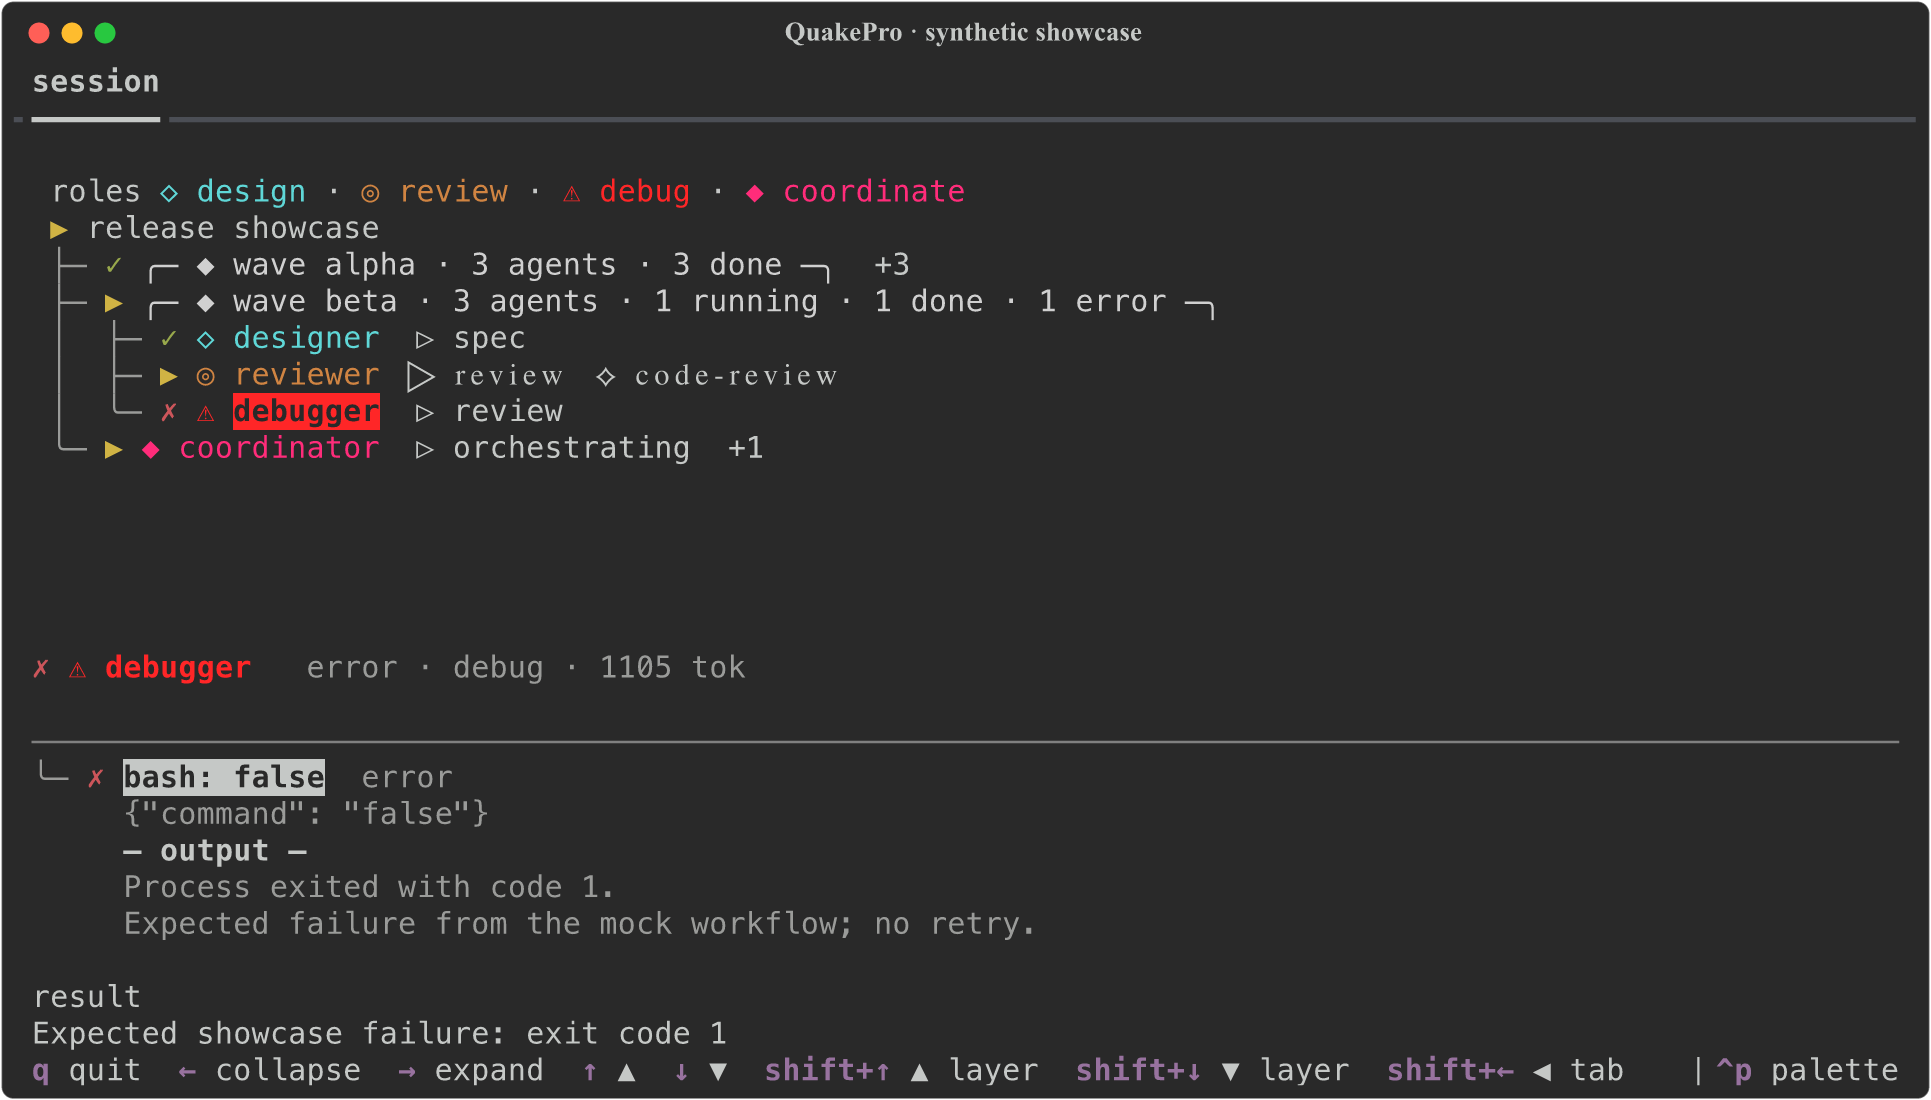
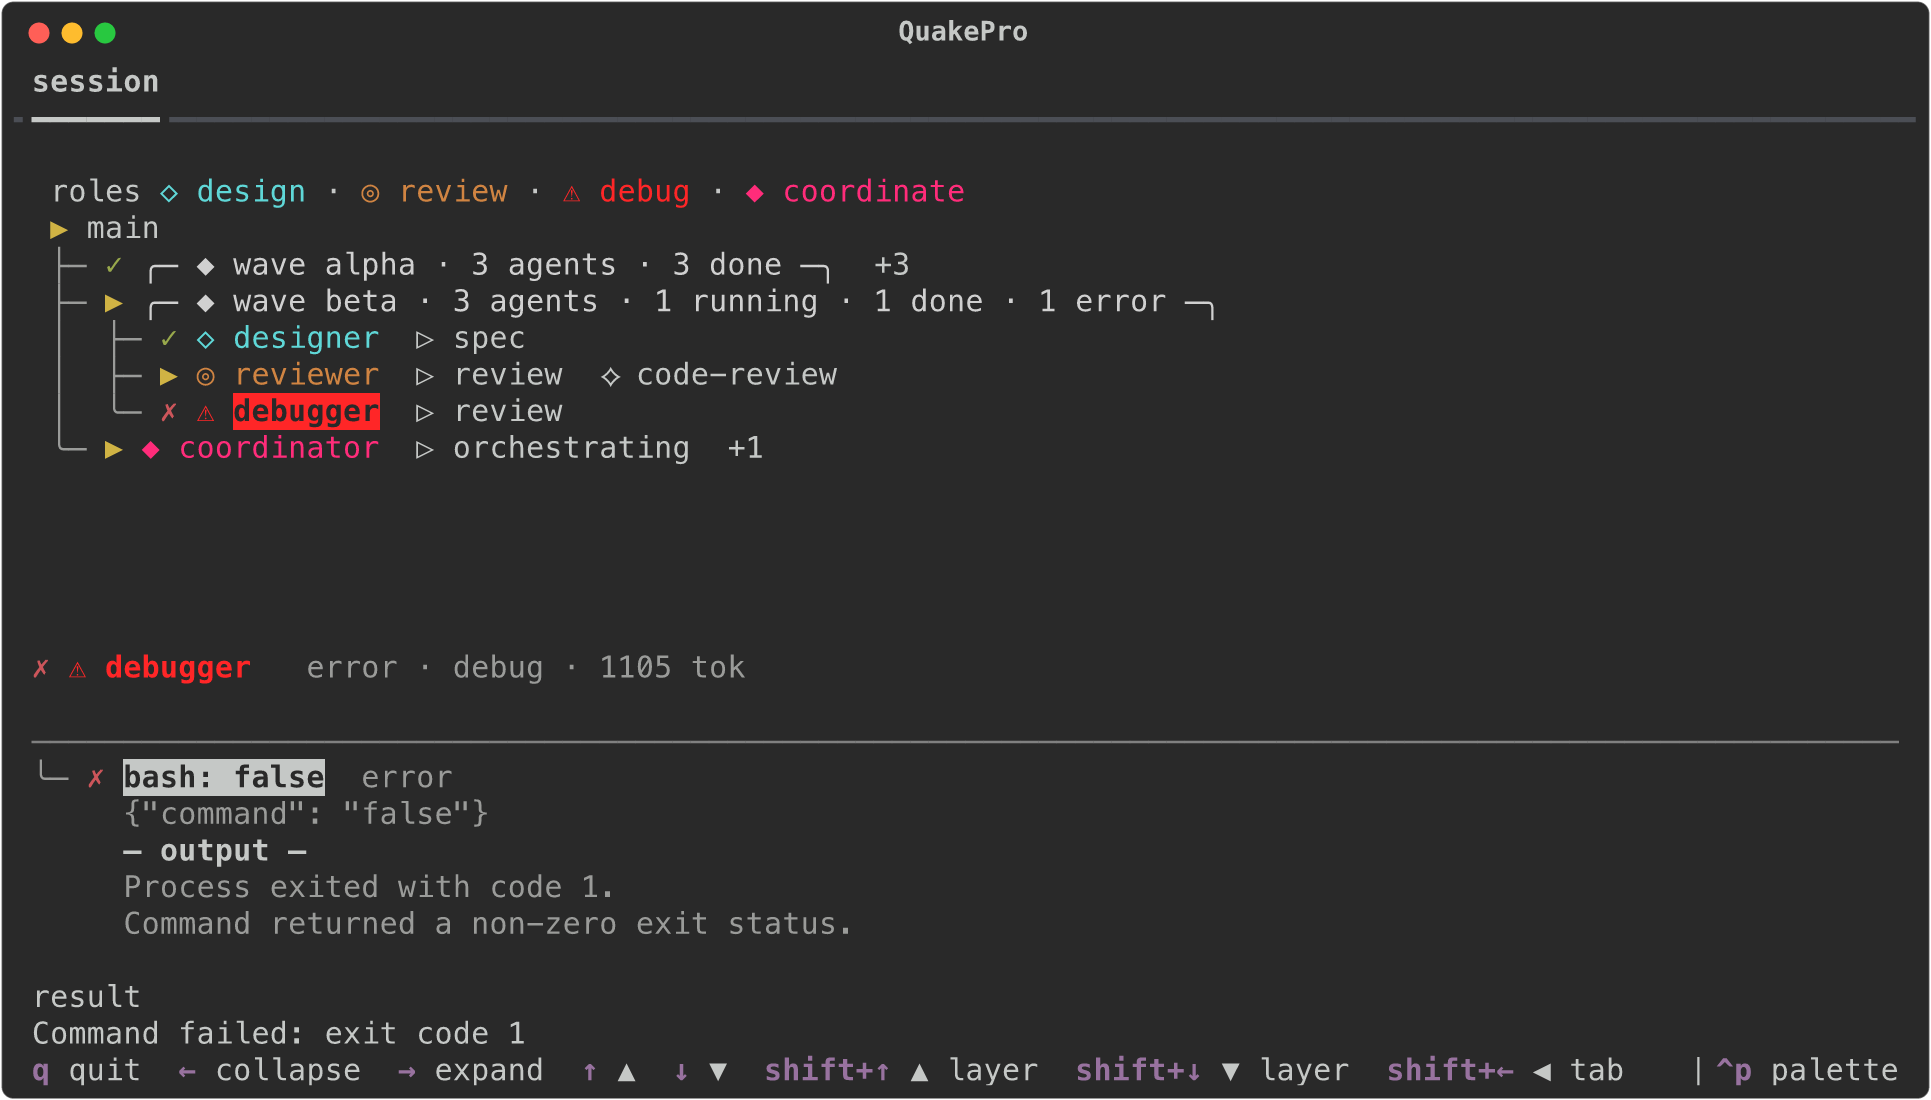
Remove terminal fallback and fix README screenshot typography

diff --git a/scripts/capture_showcase.py b/scripts/capture_showcase.py
@@ -5,9 +5,12 @@ Run from the checkout: uv run --with resvg-py scripts/capture_showcase.py
 from __future__ import annotations
 
 import asyncio
+import copy
+import xml.etree.ElementTree as ET
 from pathlib import Path
 
 import resvg_py
+from rich.cells import get_character_cell_size
 
 from quakepro.app import QuakePro
 from quakepro.session_model import Node, Step
@@ -25,7 +28,7 @@ class ShowcaseModel:
     def __init__(self):
         self.nodes = {
             "main": Node(
-                "main", "release showcase", kind="main", status="running",
+                "main", "main loop", kind="main", status="running",
                 children=["alpha", "beta", "coordinator"],
                 steps=[Step("text", "text: coordinate release checks", ts=START)],
                 last_ts=START + 180,
@@ -77,9 +80,9 @@ class ShowcaseModel:
                  output="Error handling paths found."),
             Step("tool", "bash: false", ts=START + 104, status="error",
                  body='{"command": "false"}',
-                 output="Process exited with code 1.\nExpected failure from the mock workflow; no retry."),
+                 output="Process exited with code 1.\nCommand returned a non-zero exit status."),
         ]
-        debugger.result = "Expected showcase failure: exit code 1"
+        debugger.result = "Command failed: exit code 1"
         self.nodes["reviewer"].skills = ["code-review"]
         self.nodes["docs-writer"].skills = ["docs"]
 
@@ -94,12 +97,37 @@ class StaticObservation:
 
 
 def capture(app: QuakePro, name: str) -> None:
-    svg = app.export_screenshot(title="QuakePro · synthetic showcase")
+    svg = app.export_screenshot(title="QuakePro")
+    root = ET.fromstring(svg)
+    # Isolate glyph fallback so a missing symbol cannot change a whole text span's font.
+    for group in root.iter():
+        for element in list(group):
+            if not element.tag.endswith("}text"):
+                continue
+            element.set("style", "font-family: Menlo, monospace")
+            if "textLength" not in element.attrib or not element.text:
+                continue
+            cells = sum(max(0, get_character_cell_size(char)) for char in element.text)
+            if not cells:
+                continue
+            width = float(element.attrib["textLength"]) / cells
+            offset = float(element.attrib["x"])
+            index = list(group).index(element)
+            group.remove(element)
+            for char in element.text:
+                glyph = copy.deepcopy(element)
+                glyph.text = char
+                glyph.set("x", str(offset))
+                glyph.attrib.pop("textLength")
+                group.insert(index, glyph)
+                index += 1
+                offset += max(0, get_character_cell_size(char)) * width
+    svg = ET.tostring(root, encoding="unicode")
     ASSETS.mkdir(parents=True, exist_ok=True)
     fonts = Path("/System/Library/Fonts")
     (ASSETS / f"quakepro-{name}.png").write_bytes(resvg_py.svg_to_bytes(
         svg_string=svg, zoom=1.5, font_family="Menlo",
-        monospace_family="Menlo", sans_serif_family="Arial",
+        monospace_family="Menlo", sans_serif_family="Menlo", serif_family="Menlo",
         font_dirs=[str(fonts)] if fonts.is_dir() else None,
     ))
 

diff --git a/src/quakepro/pane_lifecycle.py b/src/quakepro/pane_lifecycle.py
@@ -490,59 +490,6 @@ def _open_tmux(provider: str, session_id: str, pane: str, socket: str,
         _tmux_run(command, "set", "-t", pane, "mouse", "on", timeout_cap=0.35)
 
 
-def _apple_string(value: str) -> str:
-    return '"' + value.replace("\\", "\\\\").replace('"', '\\"') + '"'
-
-
-def _open_macos(launch: str) -> bool:
-    platform = subprocess.run(
-        ["uname"],
-        stdout=subprocess.PIPE,
-        stderr=subprocess.DEVNULL,
-        text=True,
-        timeout=_timeout(0.75, 1.5),
-    )
-    if platform.returncode != 0 or platform.stdout.strip() != "Darwin":
-        return False
-    osascript = shutil.which("osascript")
-    if not osascript:
-        return False
-    command = launch[5:] if launch.startswith("exec ") else launch
-    exists = subprocess.run(
-        [osascript, "-e", 'exists application "iTerm2"'],
-        stdout=subprocess.PIPE,
-        stderr=subprocess.DEVNULL,
-        text=True,
-        timeout=_timeout(0.75, 0.75),
-    ).stdout.strip()
-    if exists == "true":
-        script = (
-            'tell application "iTerm2" to create window with default profile command '
-            + _apple_string(command)
-        )
-    else:
-        script = 'tell application "Terminal" to do script ' + _apple_string(command)
-    return subprocess.run(
-        [osascript, "-e", script],
-        stdout=subprocess.DEVNULL,
-        stderr=subprocess.DEVNULL,
-        timeout=_timeout(0.75),
-    ).returncode == 0
-
-
-def _open_terminal(provider: str, session_id: str, launch: str) -> None:
-    with _session_lock(provider, session_id) as lock_fd:
-        os.lseek(lock_fd, 0, os.SEEK_SET)
-        if os.read(lock_fd, 32) == b"terminal-opened\n":
-            return
-        if not _open_macos(launch):
-            return
-        os.ftruncate(lock_fd, 0)
-        os.lseek(lock_fd, 0, os.SEEK_SET)
-        os.write(lock_fd, b"terminal-opened\n")
-        os.fsync(lock_fd)
-
-
 def _socket_candidates() -> list[str]:
     sockets = []
     value = os.environ.get("TMUX", "")
@@ -645,7 +592,7 @@ def handle(
     if not transcript:
         return
     launch = _launch(directory, provider, transcript, executable)
-    host, ancestry, indeterminate = _pane_host()
+    host, ancestry, _ = _pane_host()
     if host == "tmux":
         pane, socket, locator_indeterminate = _originating_tmux()
         tmux = shutil.which("tmux")
@@ -672,8 +619,6 @@ def handle(
                 launch,
                 herdr,
             )
-    elif not indeterminate:
-        _open_terminal(provider, fact.session_id, launch)
 
 
 def main(argv: list[str] | None = None, executable: str | None = None) -> int:

diff --git a/tests/test_open_pane.py b/tests/test_open_pane.py
@@ -873,39 +873,19 @@ def test_slow_title_is_bounded_and_split_self_identifies(runtime):
     assert any(call[:1] == ["kill-pane"] for call in calls)
 
 
-@pytest.mark.parametrize("iterm, application", [
-    ("true", "iTerm2"),
-    ("false", "Terminal"),
-])
-def test_macos_fallback_and_persistent_deduplication(runtime, iterm, application):
-    bundle, env, _ = runtime
-    env.pop("TMUX_PANE")
-    env.pop("TMUX")
-    env["FAKE_PS_CHAIN"] = json.dumps(["pane_lifecycle", "codex", "/bin/zsh"])
-    env["FAKE_UNAME"] = "Darwin"
-    env["FAKE_ITERM_EXISTS"] = iterm
-    transcript = rollout(Path(env["CODEX_HOME"]) / "sessions" / "root.jsonl", "mac-session")
-
-    run_hook(bundle, env, hook_payload("mac-session", transcript))
-    run_hook(bundle, env, hook_payload("mac-session", transcript))
-
-    records = [json.loads(line) for line in Path(env["FAKE_OSASCRIPT_LOG"])
-               .read_text(encoding="utf-8").splitlines()]
-    actions = [entry for entry in records if not any("exists application" in value for value in entry)]
-    assert len(actions) == 1
-    assert application in actions[0][-1]
-    assert str(transcript) in actions[0][-1]
-
-
-def test_non_macos_without_tmux_exits_silently(runtime):
+@pytest.mark.parametrize("platform", ["Darwin", "Linux"])
+@pytest.mark.parametrize("iterm", ["true", "false"])
+def test_without_pane_host_never_opens_terminal(runtime, platform, iterm):
     bundle, env, state_path = runtime
     env.pop("TMUX_PANE")
     env.pop("TMUX")
     env["FAKE_PS_CHAIN"] = json.dumps(["pane_lifecycle", "codex", "/bin/zsh"])
-    env["FAKE_UNAME"] = "Linux"
-    transcript = rollout(Path(env["CODEX_HOME"]) / "sessions" / "root.jsonl", "linux")
+    env["FAKE_UNAME"] = platform
+    env["FAKE_ITERM_EXISTS"] = iterm
+    transcript = rollout(Path(env["CODEX_HOME"]) / "sessions" / "root.jsonl", "no-host")
 
-    run_hook(bundle, env, hook_payload("linux", transcript))
+    run_hook(bundle, env, hook_payload("no-host", transcript))
+    run_hook(bundle, env, hook_payload("no-host", transcript))
 
     assert tmux_state(state_path)["splits"] == 0
     assert not Path(env["FAKE_OSASCRIPT_LOG"]).exists()

diff --git a/tests/test_pi_hooks.py b/tests/test_pi_hooks.py
@@ -94,11 +94,13 @@ def test_pi_session_start_opens_provider_specific_monitor(tmp_path, monkeypatch)
         [pi_fixture.header(session_id=session_id)],
     )
     opened = []
-    monkeypatch.setattr(pane_lifecycle, "_pane_host", lambda: ("", [], False))
+    monkeypatch.setattr(pane_lifecycle, "_pane_host", lambda: ("tmux", [], False))
+    monkeypatch.setattr(pane_lifecycle, "_originating_tmux", lambda: ("%1", "/tmp/tmux", False))
+    monkeypatch.setattr(pane_lifecycle.shutil, "which", lambda _: "/usr/bin/tmux")
     monkeypatch.setattr(
         pane_lifecycle,
-        "_open_terminal",
-        lambda provider, current_id, launch: opened.append(
+        "_open_tmux",
+        lambda provider, current_id, pane, socket, title, launch, command: opened.append(
             (provider, current_id, shlex.split(launch)),
         ),
     )
@@ -126,8 +128,10 @@ def test_pi_session_start_opens_provider_specific_monitor(tmp_path, monkeypatch)
 def test_pi_hook_rejects_wrong_session_file(tmp_path, monkeypatch):
     path = pi_fixture.write_session(tmp_path / "session.jsonl", pi_fixture.entries())
     opened = []
-    monkeypatch.setattr(pane_lifecycle, "_pane_host", lambda: ("", [], False))
-    monkeypatch.setattr(pane_lifecycle, "_open_terminal", lambda *args: opened.append(args))
+    monkeypatch.setattr(pane_lifecycle, "_pane_host", lambda: ("tmux", [], False))
+    monkeypatch.setattr(pane_lifecycle, "_originating_tmux", lambda: ("%1", "/tmp/tmux", False))
+    monkeypatch.setattr(pane_lifecycle.shutil, "which", lambda _: "/usr/bin/tmux")
+    monkeypatch.setattr(pane_lifecycle, "_open_tmux", lambda *args: opened.append(args))
 
     pane_lifecycle.handle("pi", {
         "hook_event_name": "SessionStart",

diff --git a/README.md b/README.md
@@ -6,7 +6,7 @@ QuakePro reads local session files; it needs no API connection or client patch.
 
 ![Tree view with two groups of parallel agents and a five-level nested chain; checkmarks, arrows, and an error mark distinguish completed, running, and failed work.](https://raw.githubusercontent.com/felixzc8/quakepro/main/docs/assets/quakepro-tree.png)
 
-*Actual QuakePro UI with synthetic showcase data. Two agent waves and a nested
+*Actual QuakePro UI with synthetic session data. Two agent waves and a nested
 release workflow demonstrate roles, phases, and mixed statuses. No private transcripts.*
 
 ## Quick start
@@ -50,7 +50,7 @@ so concurrent work and the later nested chain are easy to compare.
 Press **Enter** on an agent, then expand an action to read its input and output.
 Here, the mock debugger's deliberately failing command is open for inspection.
 
-![Failure inspector showing the selected debugger, the false command, exit code 1, and its expected-failure output beneath the agent tree.](https://raw.githubusercontent.com/felixzc8/quakepro/main/docs/assets/quakepro-inspector.png)
+![Failure inspector showing the selected debugger, the false command, exit code 1, and its command output beneath the agent tree.](https://raw.githubusercontent.com/felixzc8/quakepro/main/docs/assets/quakepro-inspector.png)
 
 Screenshots use the same synthetic workflow and the real app renderer. Status
 symbols and text accompany colors. [Reproduce the captures](https://github.com/felixzc8/quakepro/blob/main/docs/guide.md#reproduce-the-screenshots).
@@ -69,7 +69,7 @@ symbols and text accompany colors. [Reproduce the captures](https://github.com/f
 
 - Supports local Claude Code, Codex, and pi transcripts. Client format changes
   may require an update. See [tested versions and limits](https://github.com/felixzc8/quakepro/blob/main/docs/release-validation.md).
-- Auto-open supports tmux and Herdr, with iTerm2/Terminal fallback on macOS.
+- Auto-open supports tmux and Herdr. Without either, launch QuakePro manually.
 - There is no session picker yet. Use the options above to select a session.
 - Monitoring makes no network requests and leaves transcripts unchanged.
   Transcripts and the local cache may contain secrets already recorded by a client.

diff --git a/docs/guide.md b/docs/guide.md
@@ -328,8 +328,8 @@ and trust exact command. Project hooks and pi extensions need project trust.
 
 All three clients share pane rules. Each session gets its own 40% right pane in
 tmux or Herdr. Hook finds nearest host from process ancestry, keeps focus in work
-pane, and turns tmux mouse support on. With no pane host, macOS opens iTerm2 or
-Terminal; other systems stay silent. Concurrent starts are deduplicated.
+pane, and turns tmux mouse support on. Without either host, no window opens;
+launch QuakePro manually. Concurrent starts are deduplicated.
 
 Claude and Codex lifecycle events feed secure local state. `Stop` marks main loop
 waiting, `SubagentStop` records terminal agent state, and `SessionEnd` closes

diff --git a/CHANGELOG.md b/CHANGELOG.md
@@ -2,6 +2,10 @@
 
 User-facing release notes for QuakePro.
 
+## Unreleased
+
+- Remove the macOS terminal fallback. Auto-open now requires tmux or Herdr.
+
 ## 0.1.0 — 2026-10-02
 
 Initial alpha release.
